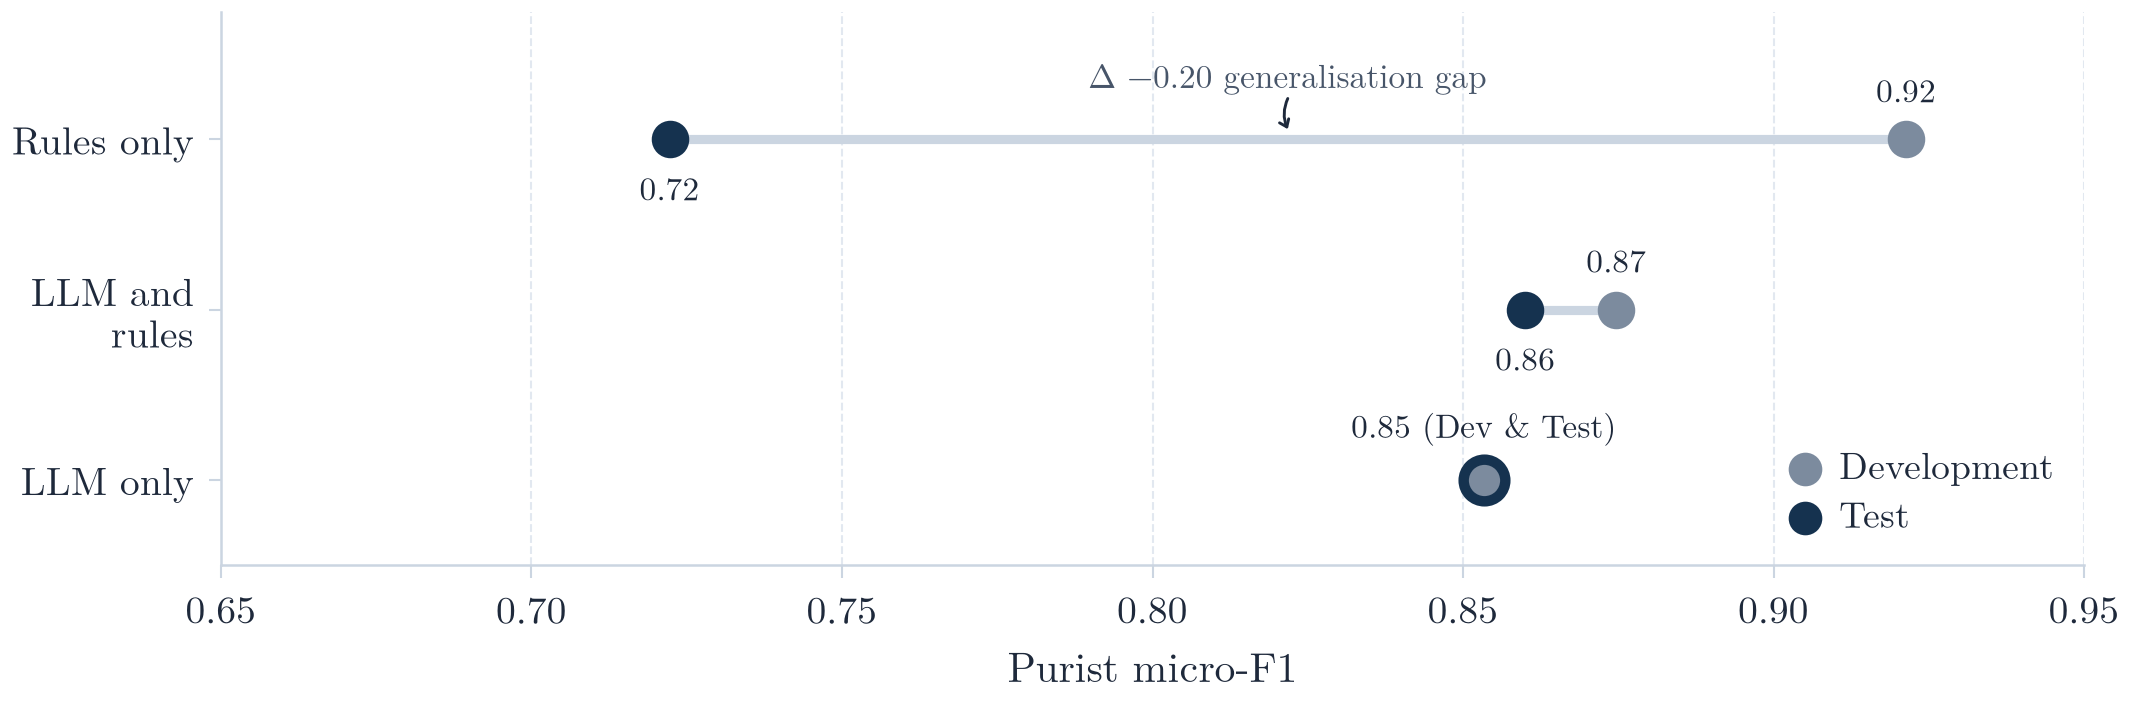
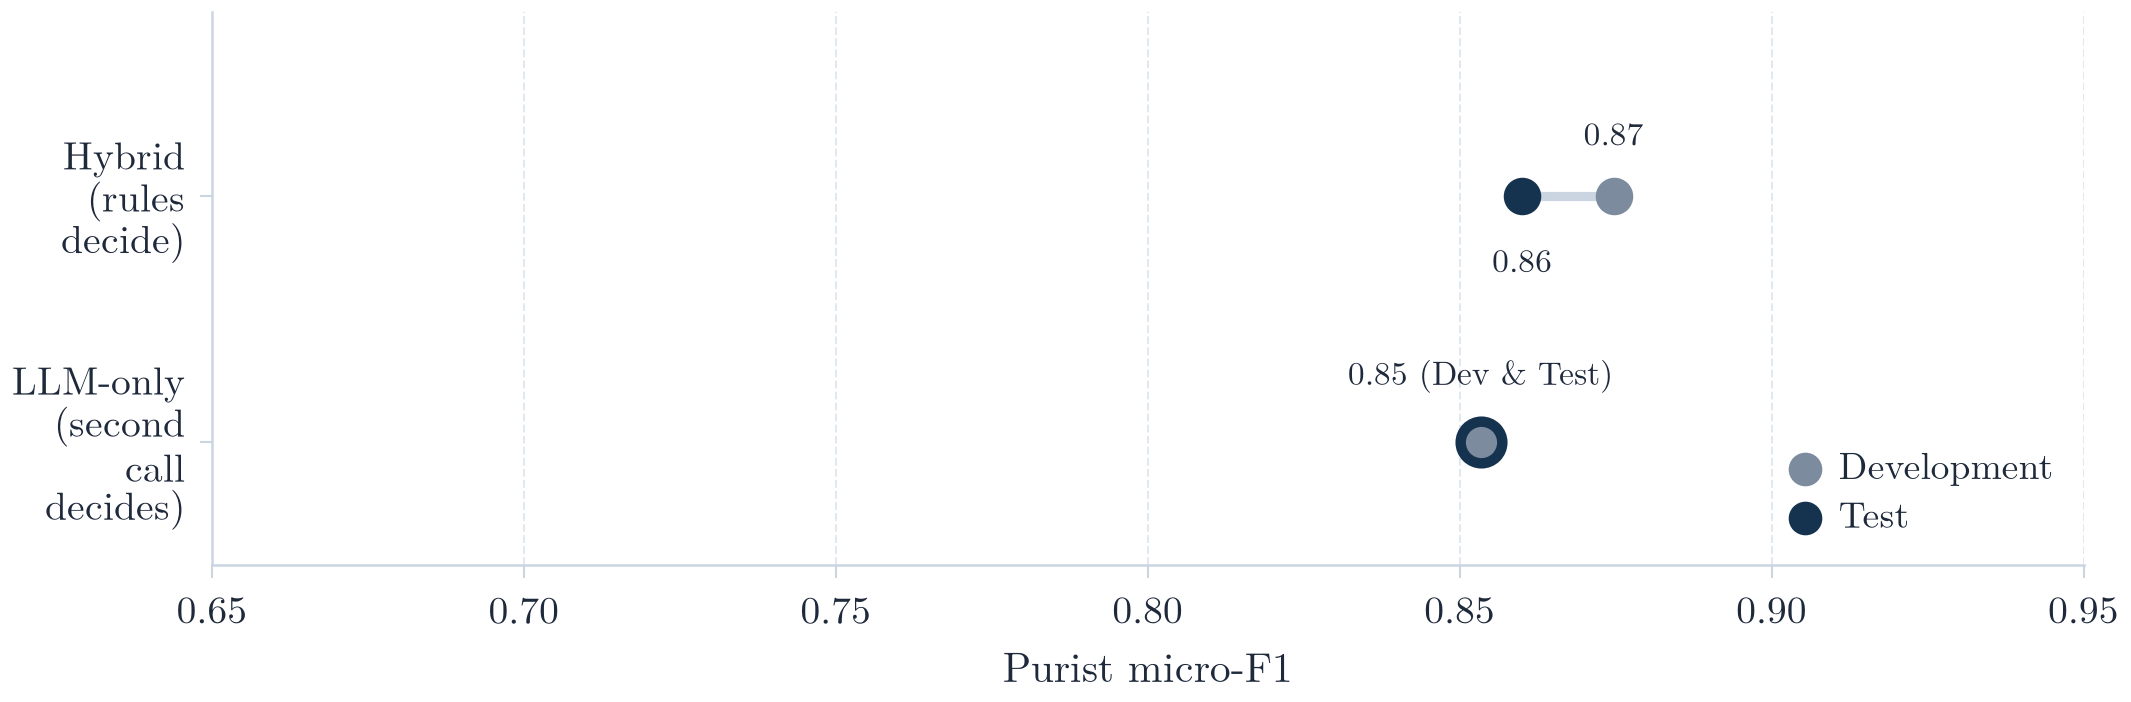
Show only the two paper executors on the live barbell figure.
Drop the Rules-only row from the dissertation-facing development versus
test chart and pin the Hybrid and LLM-only labels in tests.

diff --git a/src/clinical_extraction/paper/gan_result_figures.py b/src/clinical_extraction/paper/gan_result_figures.py
@@ -29,6 +29,12 @@ CELL5_DEV750 = (
 )
 RUNGS_ROOT = ROOT / "paper_experiments/gan/rungs"
 CELL_BARBELL_LABELS = ("Rules only", "LLM and rules", "LLM only")
+# The dissertation compares two decision executors on one shared extract.
+# Rules-only stays a repository row, not a paper row.
+PAPER_EXECUTOR_BARBELL_LABELS = {
+    "LLM and rules": "Hybrid (rules decide)",
+    "LLM only": "LLM-only (second call decides)",
+}
 BARBELL_Y_LABEL_WRAP = 10
 BARBELL_CONNECTOR_MIN_ABS_DELTA = 0.012
 BARBELL_DELTA_LABEL_MIN_ABS_DELTA = 0.05
@@ -209,6 +215,26 @@ def gemini_cells_1_3_5_barbell(
         holdout=[int(holdout_select[key]) / n_holdout for key in keys],
         n_development=n_dev,
         n_holdout=n_holdout,
+    )
+
+
+def paper_executor_barbell(pairs: BarbellPairs) -> BarbellPairs:
+    """Keep only the two decision-executor rows and use the paper's names."""
+
+    keep = [
+        index
+        for index, category in enumerate(pairs.categories)
+        if category in PAPER_EXECUTOR_BARBELL_LABELS
+    ]
+    if len(keep) != len(PAPER_EXECUTOR_BARBELL_LABELS):
+        raise ValueError("barbell rows do not include both decision executors")
+    return BarbellPairs(
+        categories=[PAPER_EXECUTOR_BARBELL_LABELS[pairs.categories[i]] for i in keep],
+        development=[pairs.development[i] for i in keep],
+        holdout=[pairs.holdout[i] for i in keep],
+        n_development=pairs.n_development,
+        n_holdout=pairs.n_holdout,
+        ylabel=pairs.ylabel,
     )
 
 
@@ -1087,7 +1113,7 @@ def render_living_figures(out_dir: Path | None = None) -> dict[str, str]:
         stages=PAPER_STAGES,
     )
     barbell = render_barbell(
-        load_living_gemini_dev_vs_test(),
+        paper_executor_barbell(load_living_gemini_dev_vs_test()),
         dest / "development_vs_test_generalization",
     )
     matrix = render_purist_confusion_matrix(

diff --git a/tests/test_gan_result_figures.py b/tests/test_gan_result_figures.py
@@ -14,9 +14,24 @@ from clinical_extraction.paper.gan_result_figures import (
     load_living_gemini_cells,
     load_living_gemini_dev_vs_test,
     load_living_six_model_cell3,
+    paper_executor_barbell,
     six_model_cell3,
     wrap_category_label,
 )
+
+
+def test_paper_executor_barbell_drops_rules_only_and_keeps_executor_order() -> None:
+    chart = gemini_cells_1_3_5_barbell(
+        development={"n": 750, "select": {"rules": 691, "hybrid": 656, "llm": 640}},
+        holdout={"n": 450, "select": {"rules": 325, "hybrid": 387, "llm": 383}},
+    )
+
+    paper = paper_executor_barbell(chart)
+
+    assert paper.categories == ["Hybrid (rules decide)", "LLM-only (second call decides)"]
+    assert paper.development == [656 / 750, 640 / 750]
+    assert paper.holdout == [387 / 450, 383 / 450]
+    assert (paper.n_development, paper.n_holdout) == (750, 450)
 
 
 def test_display_labels_use_seizure_free_not_no_seizure() -> None:
